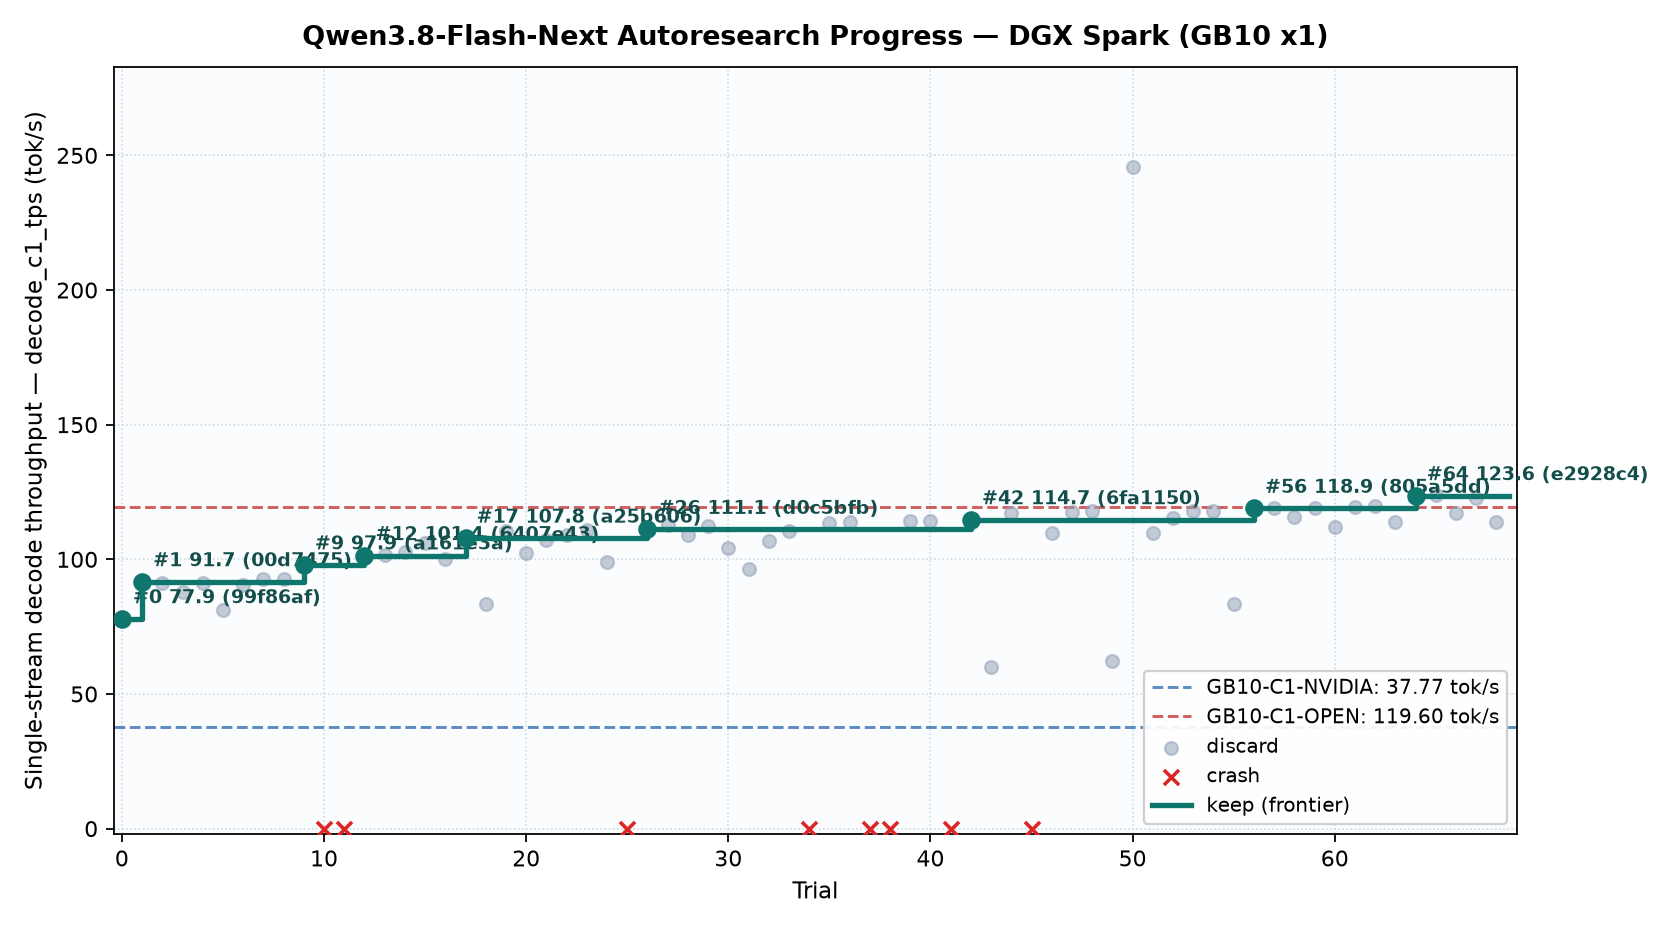
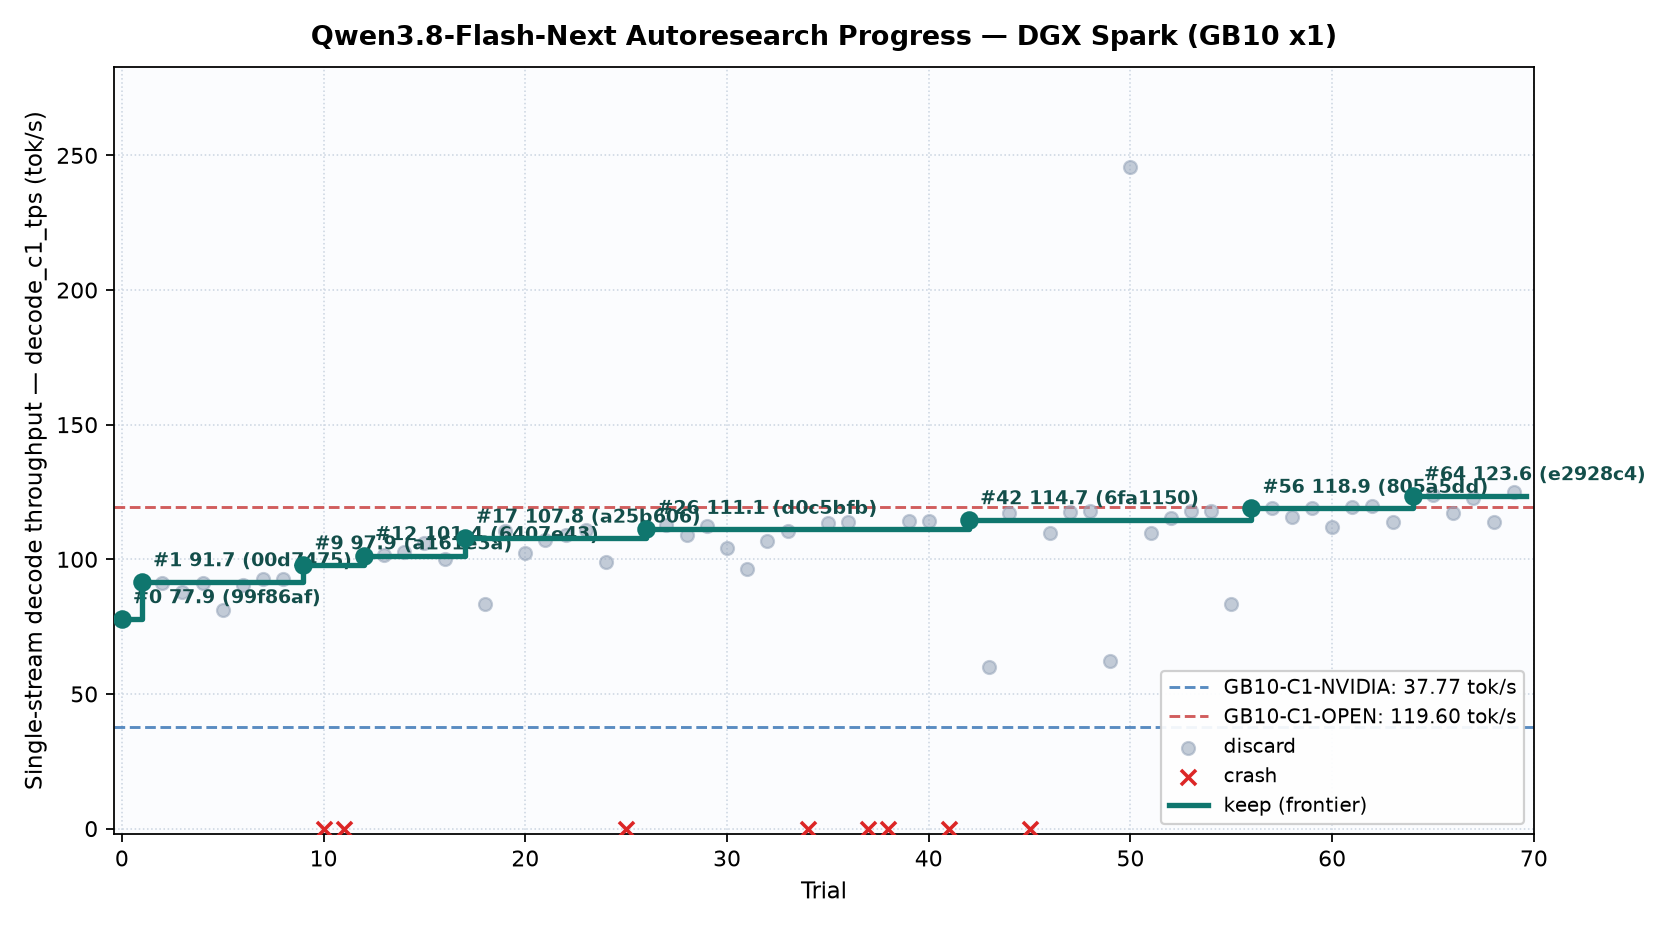
spark trial 69: discard

diff --git a/records/research-log.md b/records/research-log.md
@@ -98,3 +98,4 @@ Deprioritized: **3-bit expert weights** (Hibana +43% but GPQA -0.3, LCB -2.3; on
 | 2026-11-20 23:39 | 66 (new stack) | <https://github.com/vllm-project/vllm/commit/6abe321b>, <https://github.com/sgl-project/sglang/commit/dc8f1c35>, <https://github.com/NVIDIA/TensorRT-LLM/commit/b37f1f5a>, <https://github.com/ggml-org/llama.cpp/commit/4b69c79c>, <https://github.com/ashhart/TensorFold/pull/3807> | Six-engine check (`vllm` `6abe321b`, `sglang` `dc8f1c35` `#50635`, `TensorRT-LLM` `b37f1f5a` `#22686`, `llama.cpp` `4b69c79c` `#32660` GDN, `TensorFold` `124052c9`/`#3807` host-decoded DFloat11, `hibana` `d474b74d`): Trial 65 (`-t65b`) set new bit-exact records on C1 (`123.81`), C4 (`174.74`, `+1.26%`), C8 (`231.43`, `+0.57%`), and VRAM (`92.89 GiB`, `-2.87 GiB`), cutting round time `69.98->67.12 ms/rd` while `STOP_ALPHA=2.6` added `+2` rounds on `code-c1` (`46->48`); regression of `T(d)` across Trials 62/64/65 revealed true `T_0≈43.1 ms`, `c_step≈2.59 ms` (high `alpha`) masked by MTP probability overconfidence (`p^gamma` with `gamma>1`) and coupon-collector expert overlap (`step_cost *= decay`); separating probability calibration (`STOP_GAMMA=1.60`) from physical cost (`STOP_ALPHA=4.6`, `STOP_DECAY=0.96`) with gated `BM=32` extension (`DRAFTS_GREEDY=31`, `EXT=0.48/0.28/0.85`, `EXT_MIN=18`) in GPU `WHILE` + CPU `Stop.take` plus zero-division `gq==0` `__shfl_sync` `s5_unpack16` in `s5_fact` (`STACK:128->96`, `s5_fact_down REG:146->142 STACK:0`) jumped 7-prompt `avg7` `86.60->88.05` (`+1.67%`), `p3_fastapi` `+8.2%` (`58->50` rounds, `120.0` dec), `p4_math` `+5.4%` (`78->73` rounds), and prefill `+2.4%` at 100% identical SHAs. | Adopted in trial 66 on Trial 65's `S5` + `BF11 S=512` + `BF11 shared_down` stack: calibrated concave coupon-collector renewal stopping (`STOP_GAMMA=1.60`, `STOP_ALPHA=4.6`, `STOP_DECAY=0.96`, `CONFIDENCE=-0.05`) with gated `BM=32` extension (`DRAFTS_GREEDY=31`, `EXT=0.48/0.28/0.85`, `EXT_MIN=18`), and zero-division `gq==0` `__shfl_sync` `s5_fact_{swiglu,down_f32}` (`hash_match=1`). |
 | 2026-11-21 00:38 | 67 (new stack) | <https://github.com/vllm-project/vllm/commit/8e45c458>, <https://github.com/sgl-project/sglang/commit/459b85fb>, <https://github.com/NVIDIA/TensorRT-LLM/commit/1d3b8a7c>, <https://github.com/ggml-org/llama.cpp/commit/8e786241>, <https://github.com/ashhart/TensorFold/commit/124052c9> | Six-engine check (`vllm` `8e45c458` `#68689`, `sglang` `459b85fb` `#51592`, `TensorRT-LLM` `1d3b8a7c` `#21220` NVFP4 layouts, `llama.cpp` `8e786241` `#32664`, `TensorFold` `124052c9`/`#3807`, `hibana` `d474b74d`): Trial 66 set bit-exact records on `c4=174.98`/`c8=232.07` (`92.94 GiB`), while log audit exposed two clean fixes on `-t66`: (1) `TF_FLASHNEXT_FACT_ROWS=64` sent `67`-tok prompts (`ttft +11ms`) and `c16` verify batches (`n>=64`, `c16 -14.5 tok/s`) into `34KB`-SMEM `s5_fact` instead of `s5_coop2_u4`/`s5_down_1w`, and raising `TF_FLASHNEXT_FACT_ROWS=256` recovers `c16` (`+12.4 tok/s`, beating Trial 64 by `+2.3%`) and cuts `ttft` `-5ms`; (2) `BM=32` extension inflated `code-c1` drafts (`467->564`), whereas staying strictly inside `BM=16` (`DRAFTS_GREEDY=15`, `EXT=0`) with higher renewal `STOP_ALPHA=4.2` (`STOP_DECAY=1.0`, `STOP_GAMMA=1.0`, `CONFIDENCE=-0.28`) prevents premature chopping of high-acc chains while keeping `-0.28` floor on low-acc rounds (bracketed ABBA vs Trial 64 `keep`: `avg8 +1.71%`, `hi3 +2.15%`, `p3_fastapi +4.72%` cutting `53->50` rds with fewer drafts `476->473`, `c4 +2.58%`, `c16 +2.26%`, 100% identical SHAs; Block-FP8 MTP experts `-3.6%` and `BF11 S2=64` `-0.5%` rejected). | Adopted in trial 67 on cached `-t66` `S5` + `BF11 S=512` + `BF11 shared_down` binary: `TF_FLASHNEXT_FACT_ROWS=256`, `DRAFTS_GREEDY=15`, `EXT=0`, `STOP_ALPHA=4.2`, `STOP_DECAY=1.0`, `STOP_GAMMA=1.0`, `CONFIDENCE=-0.28` (`hash_match=1`). |
 | 2026-11-21 02:00 | 68 (new stack) | <https://github.com/vllm-project/vllm/commit/c334a495>, <https://github.com/sgl-project/sglang/commit/fa4e39b3>, <https://github.com/NVIDIA/TensorRT-LLM/commit/92ccf9c4>, <https://github.com/ggml-org/llama.cpp/commit/18486280>, <https://github.com/ashhart/TensorFold/releases/tag/v1.3.1> | Six-engine check (`vllm` `v0.34.0`/`c334a495` `#68948`, `sglang` `v0.5.23`/`fa4e39b3`, `TensorRT-LLM` `v1.3.0`/`92ccf9c4` `#21019` NVFP4+MTP / `a8357754` `#22497`, `llama.cpp` `b12580`/`18486280`, `TensorFold` `v1.3.1` Metal Hy4 + `12233bee` prompt readout + PR `#2638` copy drafter, `hibana` `d474b74d`): `nsys` + CUPTI + `cuobjdump` audit of `-t66` verified 5 bit-exact (`hash_match=1`) wins: (1) 2-piece pipelined verify graphs (`window`/`window_b`, `shared`/`shared_b`, Part A `embed+L0..2` hides Part B's ~700us `cuGraphLaunch` CPU bubble -> `Gaps before embed` `93.2->57.9 ms`, `-35 ms`); (2) zero-SMEM warp-0 register-shuffled `bf11_eoff` unlocking `24,576B = 4 CTAs/SM` on `BF11` `in_proj`/`out_proj`/`shared_gu`; (3) zero-spill `tf_nvfp4_s5_coop2_u4` (1-arg SMEM union trampoline, `__launch_bounds__(64,10)` -> 20 warps/SM, `STACK:0`) + `gq==0` `__shfl_sync` `tf_nvfp4_s5_down_1w` (`__launch_bounds__(32,20)` -> 20 warps/SM); (4) zero-spill `tf_route_topk_plan_512` (`__launch_bounds__(512)`, `STACK:136->0`, `-14%`); (5) `MTP_NVFP4=safe` (`fc_hidden` + `o_proj` + `shared_expert` in 4.5b NVFP4) gaining `+1.33%` AVG6 across 6 coding prompts (`90.13->91.33`, FastAPI `+4.5%`) with `W1_KTOP=64`, `STOP_ALPHA=3.2` on `-t66`'s S5/BF11/`FACT_ROWS=256`. | Adopted in trial 68 (`-t68b`): 2-piece pipelined verify graphs, zero-SMEM register-shuffled `BF11` `4 CTAs/SM`, zero-spill 20-warp `s5_coop2_u4` + `gq==0` `s5_down_1w`, zero-spill `tf_route_topk_plan_512`, `MTP_NVFP4=safe`, `W1_KTOP=64`, `STOP_ALPHA=3.2` (`hash_match=1`). |
+| 2026-11-21 02:34 | 69 (new stack) | <https://github.com/vllm-project/vllm/commit/022759ad>, <https://github.com/sgl-project/sglang/commit/f7ff1e0a>, <https://github.com/NVIDIA/TensorRT-LLM/commit/6ef751b7>, <https://github.com/ggml-org/llama.cpp/commit/18486280>, <https://github.com/ashhart/TensorFold/commit/6fb427eb> | Six-engine check (`vllm` `022759ad`, `sglang` `f7ff1e0a`, `TensorRT-LLM` `6ef751b7`, `llama.cpp` `18486280`, `TensorFold` `6fb427eb` Nemotron 3.5 Bolt, `hibana` `d474b74d`): Trial 68 (`-t68b`) set bit-exact world records on `c4=175.99`, `c16=283.64`, `ttft=0.154`, and cut warmed `code-c1` per-round time `70.15->67.46 ms/rd` (`-3.83%`), but `MTP_NVFP4=safe` degraded `code-c1` acceptance (`46->52` rounds); pre-commit A/B of `-t69` proved true zero-spill `tf_nvfp4_s5_coop2_u4` (`REG:90 STACK:0`, separate `S5CoopWideArgs` + single-buffered cold helper) + 2-piece pipelined verify graphs + `BF11 4 CTAs/SM` + `tf_route_topk_plan_512` (`STACK:0`) with `MTP_NVFP4=0` (`46` rounds restored) wins all 4 coding prompts (`AVG4 93.97->94.73`, `+0.81%`, 100% identical SHAs), while `M=1` FP32-FMA GEMV tied (`94.77`) and uncalibrated `p_hot` Two-Tier `W1g64` hurt acceptance (`87.11`) so both are gated off. | Adopted in trial 69 (`-t69`): `MTP_NVFP4=0` restoring `46` rounds + true zero-spill `tf_nvfp4_s5_coop2_u4` (`REG:90 STACK:0`) + 2-piece verify graphs + `BF11 4 CTAs/SM` + `topk_plan_512` (`hash_match=1`). |
